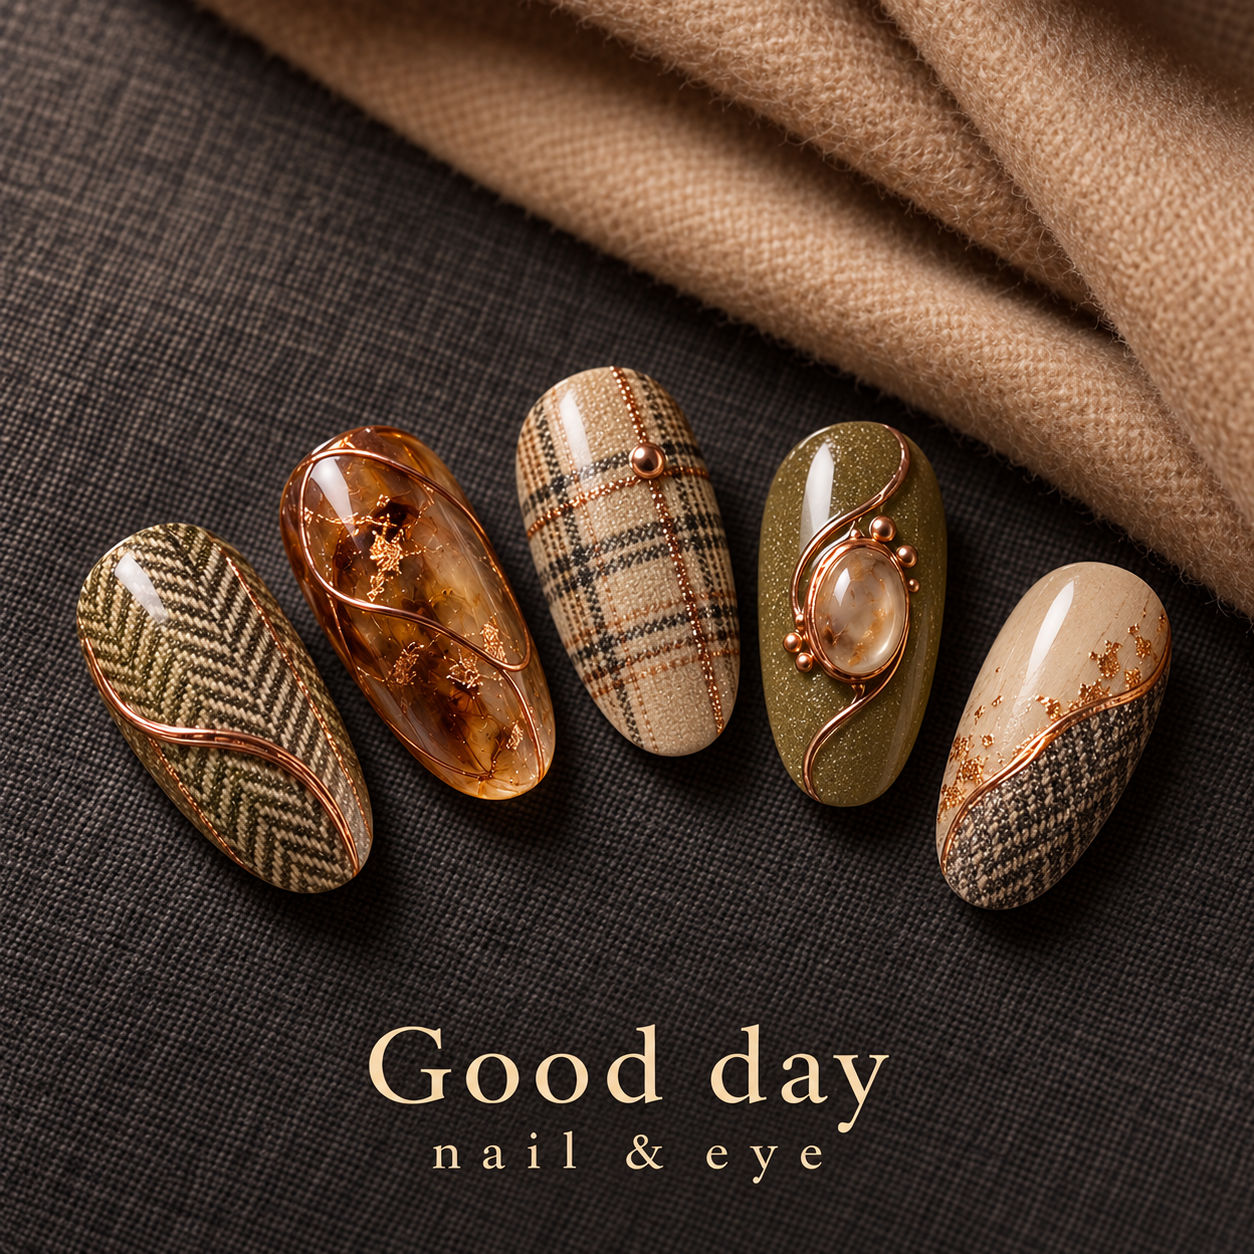
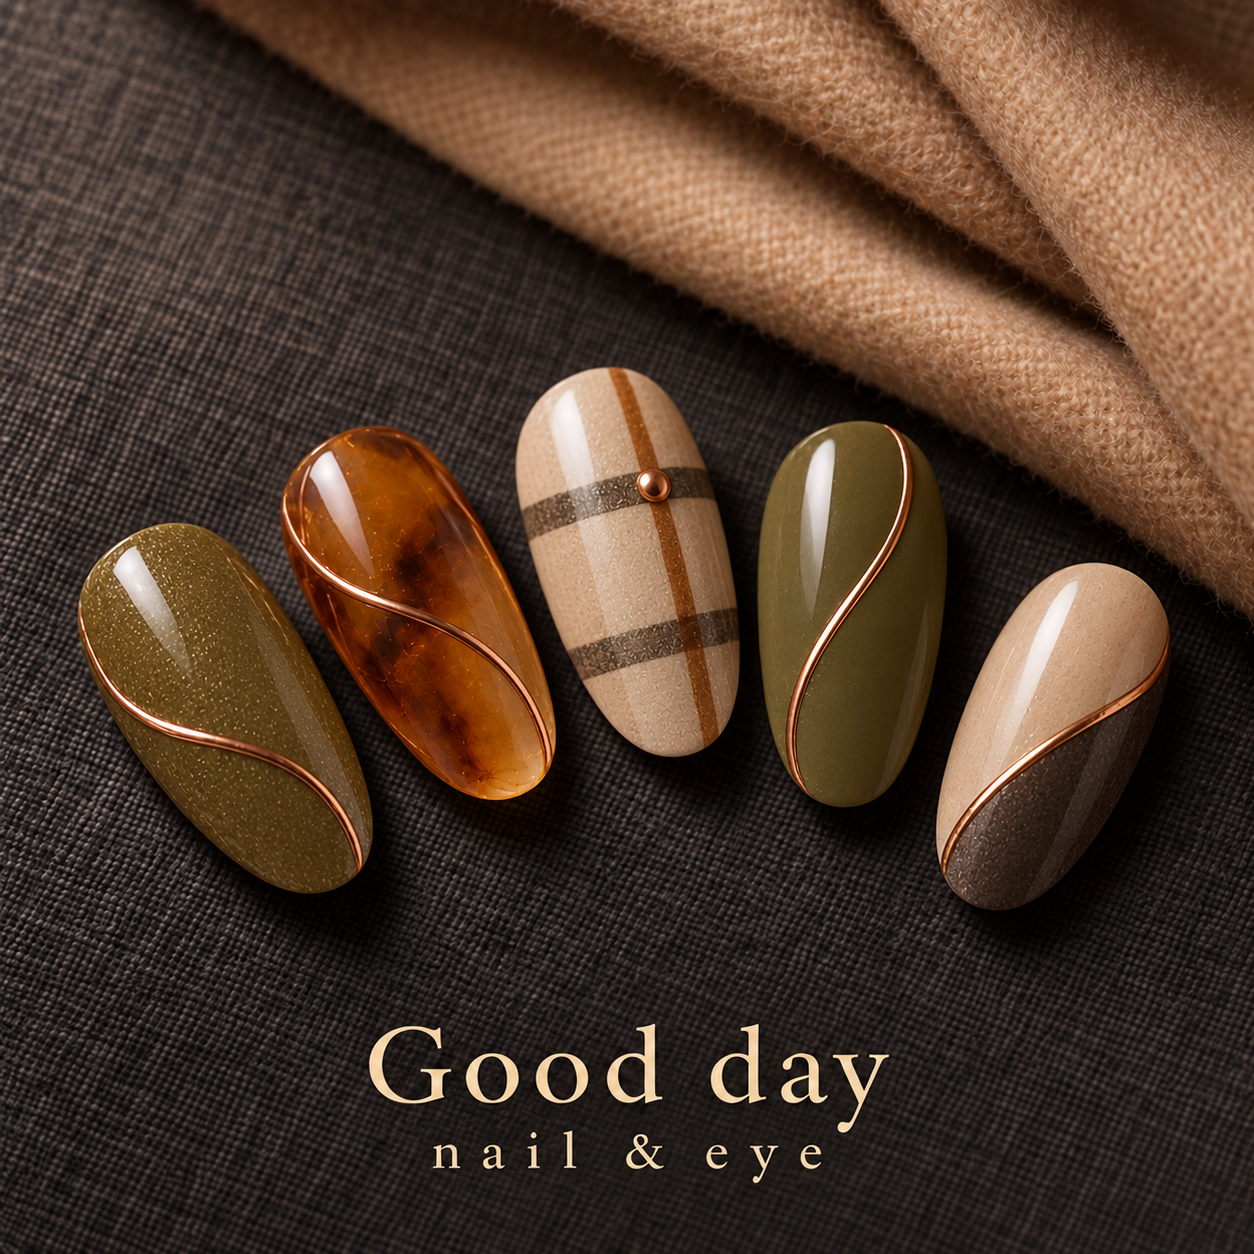
Select original sub visual and simplify 120min art

diff --git a/index.html b/index.html
@@ -130,7 +130,7 @@
     <div class="grid wide">
       <figure>
         <img src="2026-10/02_sub_visual/sub_visual.png" alt="サブビジュアル確定版">
-        <figcaption>確定版：大人ハロウィン（キービジュアル寄せの明るい秋色）</figcaption>
+        <figcaption>確定版：大人ハロウィン（初回B案）</figcaption>
       </figure>
     </div>
   </section>
